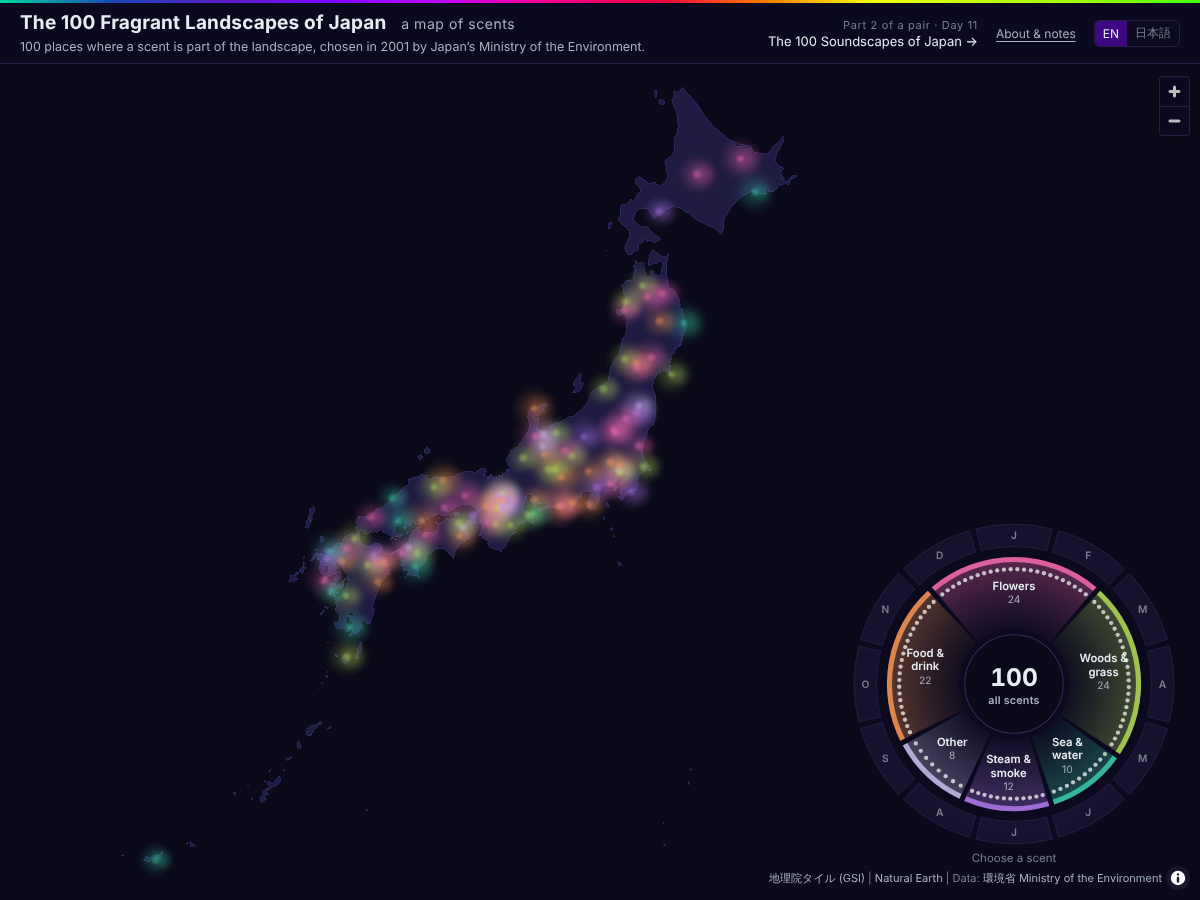
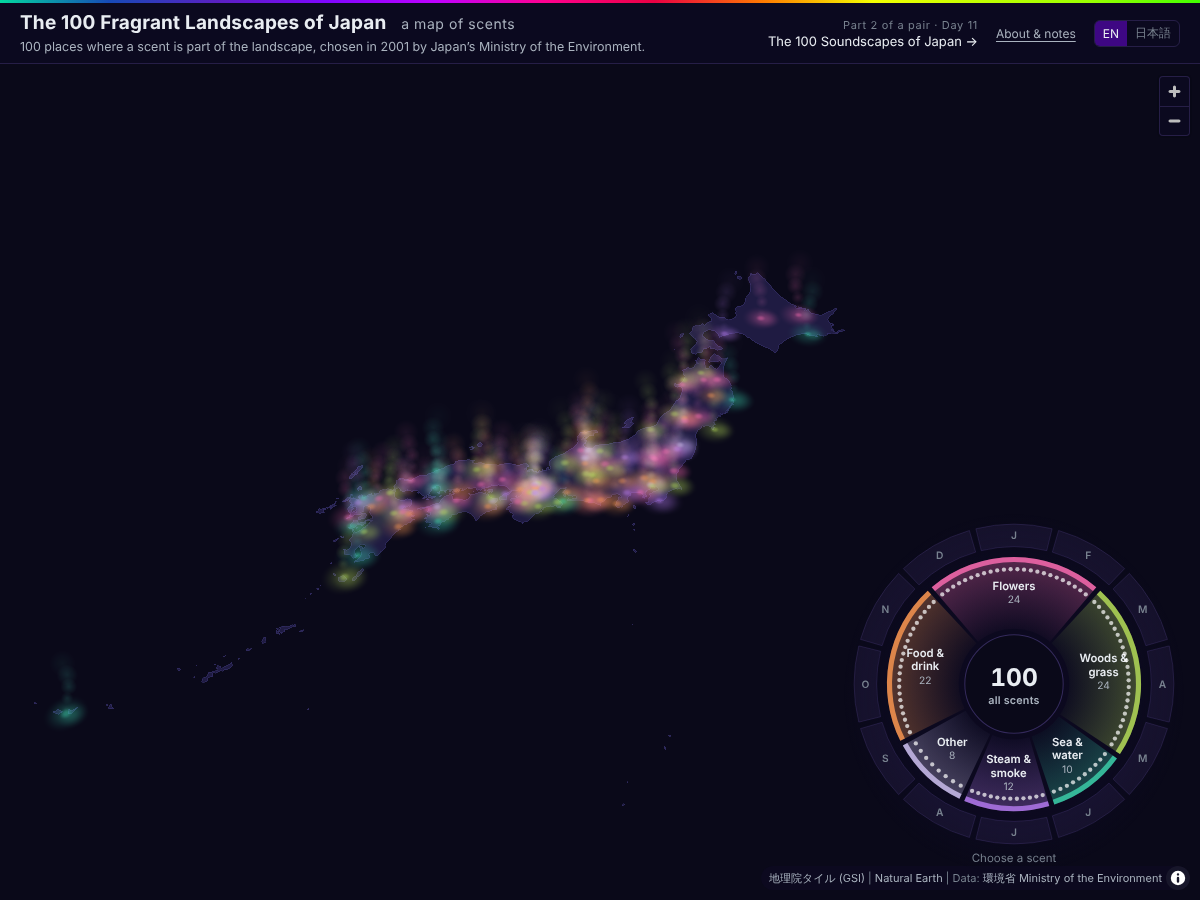
Tilt the map and let scents rise from each place
The map is seen from an angle, with the hazes lying on the ground and
a thin plume of soft wisps rising and swaying above each place, drawn
on a canvas over the map. Plumes follow the chosen scent and month,
rise with the opening, and stay still when reduced motion is set.

diff --git a/js/app.js b/js/app.js
@@ -85,6 +85,7 @@
         '<li>Base map: land outline from <a href="https://www.naturalearthdata.com/" target="_blank" rel="noopener">Natural Earth</a>; detail from <a href="https://maps.gsi.go.jp/development/ichiran.html" target="_blank" rel="noopener">GSI Tiles (blank map)</a>, Geospatial Information Authority of Japan.</li>' +
         '</ul>' +
         '<p>#30DayMapChallenge 2026 · Day 19 · Senses: Smell · <a href="https://github.com/shinyanakashima/30daymapchallenge-2026day19-100fragrances" target="_blank" rel="noopener">Data &amp; code</a></p>' +
+        '<p>The map is tilted, and a thin plume of scent rises from each place, swaying as it fades.</p>' +
         '<p>The outer ring of the wheel picks a month: only the scents of that month stay lit. Hover a name tag or a dot on the wheel to find a place.</p>' +
         '<p>Keyboard: ← / → move around the wheel, ↑ / ↓ change the month, 0 shows all, Esc closes.</p>'
     },
@@ -160,6 +161,7 @@
         '<li>背景地図：陸域の輪郭 <a href="https://www.naturalearthdata.com/" target="_blank" rel="noopener">Natural Earth</a>、詳細 <a href="https://maps.gsi.go.jp/development/ichiran.html" target="_blank" rel="noopener">地理院タイル（白地図）</a>（国土地理院）</li>' +
         '</ul>' +
         '<p>#30DayMapChallenge 2026・Day 19・Senses: Smell・<a href="https://github.com/shinyanakashima/30daymapchallenge-2026day19-100fragrances" target="_blank" rel="noopener">データとコード</a></p>' +
+        '<p>地図を斜めから見下ろし、各地点からかおりが細く立ちのぼって揺れながら消えていく様子を描いています。</p>' +
         '<p>輪の外周で月を選ぶと、その月にかおる場所だけが残ります。輪の縁の点にマウスを乗せると、その場所が地図に示されます。</p>' +
         '<p>キーボード：← / → で輪を回る、↑ / ↓ で月を変える、0 ですべて、Esc で閉じる。</p>'
     }
@@ -235,6 +237,35 @@
     keyboard: false
   });
   map.touchZoomRotate.disableRotation();
+  // the map is tilted so the scents can rise from it
+  // a tilted view, north kept roughly at the top so the outline of Japan stays familiar
+  function camAngles() { return isNarrow() ? { pitch: 45, bearing: 18 } : { pitch: 45, bearing: -12 }; }
+  var FRAME = [[122.9, 24.3], [124.2, 24.4], [129.7, 33.2], [130.6, 31.2], [132.6, 32.8], [135.8, 33.5], [139.0, 34.7], [140.9, 35.7],
+    [141.6, 38.3], [142.0, 39.6], [141.3, 41.4], [139.9, 41.5], [141.6, 45.4], [145.6, 43.3], [143.9, 42.9], [139.4, 38.2], [135.2, 35.6], [130.9, 34.3]];
+  function setCamera() {
+    var a = camAngles(), pad = fitPadding(), W = map.getContainer().clientWidth, H = map.getContainer().clientHeight;
+    var cam = map.cameraForBounds([[122.6, 24.0], [146.2, 45.6]], { padding: pad, bearing: a.bearing });
+    if (!cam) return;
+    map.jumpTo({ center: cam.center, zoom: cam.zoom, bearing: a.bearing, pitch: a.pitch });
+    // fit the tilted outline of Japan into the free area of the screen, leaving room above for the rising scent
+    var top = pad.top + 40;
+    for (var k = 0; k < 4; k++) {
+      var xs = [], ys = [];
+      FRAME.forEach(function (c) { var q = map.project(c); xs.push(q.x); ys.push(q.y); });
+      var x0 = Math.min.apply(null, xs), x1 = Math.max.apply(null, xs), y0 = Math.min.apply(null, ys), y1 = Math.max.apply(null, ys);
+      var aw = W - pad.left - pad.right, ah = H - top - pad.bottom;
+      var dz = Math.log(Math.min(aw / (x1 - x0), ah / (y1 - y0))) / Math.LN2;
+      var cx = (x0 + x1) / 2, cy = (y0 + y1) / 2, tx = pad.left + aw / 2, ty = top + ah / 2;
+      var c0 = map.unproject([cx, cy]), c1 = map.unproject([tx, ty]);
+      var cen = map.getCenter();
+      map.jumpTo({ center: [cen.lng + (c0.lng - c1.lng), cen.lat + (c0.lat - c1.lat)], zoom: map.getZoom() + dz * 0.9 });
+    }
+  }
+  map.once('load', setCamera);
+  var lastCamNarrow = isNarrow();
+  window.addEventListener('resize', function () {
+    if (isNarrow() !== lastCamNarrow && map.loaded()) { lastCamNarrow = isNarrow(); setCamera(); }
+  });
   window.fragranceMap = map;
   map.addControl(new maplibregl.AttributionControl({
     compact: true,
@@ -244,8 +275,8 @@
 
   function fitPadding() {
     var w = window.innerWidth;
-    if (w <= 720) return { top: 90, bottom: 290, left: 20, right: 20 };
-    return { top: 84, bottom: 30, left: 60, right: 340 };
+    if (w <= 720) return { top: 84, bottom: 290, left: 16, right: 16 };
+    return { top: 76, bottom: 30, left: 30, right: 360 };
   }
 
   function catColor() {
@@ -321,6 +352,7 @@
             'circle-radius': hazeRadius(0.7, 1),
             'circle-color': catColor(),
             'circle-blur': 1,
+            'circle-pitch-alignment': 'map',
             'circle-opacity': hazeOpacity(0.28, 0.2, 0.025, introOn() ? 47 : null),
             'circle-translate': [0, 0]
           }
@@ -331,6 +363,7 @@
             'circle-radius': hazeRadius(0.26, 1),
             'circle-color': catColor(),
             'circle-blur': 0.9,
+            'circle-pitch-alignment': 'map',
             'circle-opacity': hazeOpacity(0.55, 0.36, 0.04, introOn() ? 47 : null)
           }
         });
@@ -341,6 +374,7 @@
             'circle-color': 'rgba(0,0,0,0)',
             'circle-stroke-color': '#ffffff',
             'circle-stroke-width': 1.5,
+            'circle-pitch-alignment': 'map',
             'circle-stroke-opacity': ['case', SEL, 0.9, HL, 0.55, 0]
           }
         });
@@ -739,7 +773,8 @@
   // The hazes slowly breathe and the middle layer drifts a little, like a scent on a light wind.
   var rafId = null;
   var lastDraw = 0;
-  var INTRO_MS = 3600, introStart = null, introDone = false;
+  var INTRO_MS = 3600, introStart = null, introDone = false, revealTh = introOn0() ? 47 : null;
+  function introOn0() { return !(reduceMotion && reduceMotion.matches); }
   function introOn() { return !introDone && !(reduceMotion && reduceMotion.matches); }
   function drawHaze(t, drift) {
     if (!map.getLayer('haze-wide')) return;
@@ -753,24 +788,81 @@
       // hazes rise one after another from Hokkaido down to Okinawa
       var k = Math.min(1, (ts - introStart) / INTRO_MS);
       var e = 1 - Math.pow(1 - k, 2);
-      setReveal(47 - e * 27);
-      if (k >= 1) { introDone = true; setReveal(null); }
+      revealTh = 47 - e * 27;
+      setReveal(revealTh);
+      if (k >= 1) { introDone = true; revealTh = null; setReveal(null); }
     }
     if (ts - lastDraw > 50) {
       var t = ts / 1000;
       drawHaze(t, [Math.sin(t * 0.21) * 5 + 2, Math.cos(t * 0.17) * 3 - 1]);
       lastDraw = ts;
     }
+    drawPlumes(ts / 1000, false);
     rafId = requestAnimationFrame(frame);
   }
   function drawStatic() {
     if (!map.getLayer('haze-wide')) return;
-    if (!introDone) { introDone = true; setReveal(null); }
+    if (!introDone) { introDone = true; revealTh = null; setReveal(null); }
+    drawPlumes(0, true);
     map.setPaintProperty('haze-wide', 'circle-radius', hazeRadius(1, 1));
     map.setPaintProperty('haze-drift', 'circle-radius', hazeRadius(0.7, 1));
     map.setPaintProperty('haze-core', 'circle-radius', hazeRadius(0.26, 1));
     map.setPaintProperty('haze-drift', 'circle-translate', [0, 0]);
   }
+  // ---------- rising scent ----------
+  // Each place sends up soft wisps that sway and fade, drawn on a canvas over the tilted map.
+  var plume = $('plume'), pctx = plume.getContext('2d');
+  var sprites = {};
+  function sprite(col) {
+    if (sprites[col]) return sprites[col];
+    var c = document.createElement('canvas'); c.width = c.height = 64;
+    var g = c.getContext('2d'), gr = g.createRadialGradient(32, 32, 0, 32, 32, 32);
+    gr.addColorStop(0, col); gr.addColorStop(0.35, col + 'aa'); gr.addColorStop(1, col + '00');
+    g.fillStyle = gr; g.fillRect(0, 0, 64, 64);
+    return (sprites[col] = c);
+  }
+  function sizePlume() {
+    var r = window.devicePixelRatio || 1, w = plume.clientWidth, h = plume.clientHeight;
+    if (plume.width !== Math.round(w * r) || plume.height !== Math.round(h * r)) {
+      plume.width = Math.round(w * r); plume.height = Math.round(h * r);
+    }
+    pctx.setTransform(r, 0, 0, r, 0, 0);
+  }
+  var WISPS = 5, LIFE = 4.2;
+  function drawPlumes(t, still) {
+    if (!items.length) return;
+    sizePlume();
+    var w = plume.clientWidth, h = plume.clientHeight;
+    pctx.clearRect(0, 0, w, h);
+    var s = Math.max(isNarrow() ? 0.6 : 0.9, Math.min(1.8, Math.pow(2, map.getZoom() - 5)));
+    var f = state.preview || state.focus, any = !!f || !!state.month;
+    pctx.globalCompositeOperation = 'screen';
+    items.forEach(function (it) {
+      var p = map.project([it.lon, it.lat]);
+      if (p.x < -60 || p.x > w + 60 || p.y < -40 || p.y > h + 200) return;
+      var a = !any ? 0.4 : (isLit(it) ? 0.75 : 0.05);
+      if (state.selected === it.id) a = 1;
+      if (revealTh != null) a *= Math.max(0, Math.min(1, (it.lat - revealTh) / 2.5));
+      if (a <= 0.01) return;
+      var img = sprite(COLORS[it.category]);
+      var ph = (it.id * 0.618) % 1;
+      for (var k = 0; k < WISPS; k++) {
+        // u: 0 at the ground, 1 at the top of the plume
+        var u = still ? (k + 0.5) / WISPS : ((t / LIFE + ph + k / WISPS) % 1);
+        var rise = u * 64 * s;
+        var sway = Math.sin(t * 0.9 + it.id + u * 5) * 7 * s * u;
+        var size = (7 + 24 * u) * s;
+        var al = a * Math.sin(Math.PI * u) * (1 - u * 0.35) * 0.5;
+        pctx.globalAlpha = al;
+        pctx.drawImage(img, p.x + sway - size / 2, p.y - rise - size / 2, size, size);
+      }
+    });
+    pctx.globalAlpha = 1;
+    pctx.globalCompositeOperation = 'source-over';
+  }
+  map.on('move', function () { if (reduceMotion && reduceMotion.matches) drawPlumes(0, true); });
+  window.addEventListener('resize', function () { if (reduceMotion && reduceMotion.matches) drawPlumes(0, true); });
+
   function startAnimation() {
     if (rafId) cancelAnimationFrame(rafId);
     rafId = null;

diff --git a/css/style.css b/css/style.css
@@ -35,6 +35,8 @@ button { font: inherit; color: inherit; cursor: pointer; }
 .maplibregl-ctrl-group button + button { border-top-color: var(--panel-line) !important; }
 .maplibregl-ctrl-group button .maplibregl-ctrl-icon { filter: invert(0.9); }
 .maplibregl-canvas { cursor: default; }
+/* rising scent drawn over the tilted map */
+#plume { position: absolute; inset: 0; width: 100%; height: 100%; pointer-events: none; z-index: 1; mix-blend-mode: screen; }
 .maplibregl-ctrl-top-right { top: calc(var(--hd-h) + 2px); }
 
 .panel {

diff --git a/index.html b/index.html
@@ -14,6 +14,7 @@
 </head>
 <body>
 <div id="map" role="region" aria-label="Map"></div>
+<canvas id="plume" aria-hidden="true"></canvas>
 
 <header class="site-header">
   <div class="hd-title">

diff --git a/README.md b/README.md
@@ -10,7 +10,7 @@
 
 On 30 October 2001, Japan's Ministry of the Environment selected the *100 Fragrant Landscapes of Japan* (かおり風景100選) from 600 entries: places where a good scent belongs to the scenery, culture or daily life, and where local people work to keep it. Lavender fields and plum groves sit on the list next to hot spring sulphur, incense, soy sauce, old books and the smell of rain on stone.
 
-This map places the 100 scents as soft, drifting hazes coloured by the kind of scent. Pick a kind on the scent wheel and its places come forward while the rest fade.
+This map places the 100 scents on a tilted map as soft hazes coloured by the kind of scent, each sending up a thin plume that sways and fades. Pick a kind on the scent wheel and its places come forward while the rest fade.
 
 It is the second half of a pair with Day 11, [The 100 Soundscapes of Japan: a sound calendar](https://shinyanakashima.github.io/30daymapchallenge-2026day11-100soundscapes/). Day 11 shows sounds by *when* you can hear them; this map shows scents by *what* they smell of.
 
@@ -21,7 +21,7 @@ It is the second half of a pair with Day 11, [The 100 Soundscapes of Japan: a so
 - On opening, the hazes rise one after another from Hokkaido down to Okinawa
 - English and Japanese (`?lang=ja`); a kind of scent can be set with `?scent=flower` (`green`, `water`, `smoke`, `food`, `other`)
 - Keyboard: ← / → move around the wheel, ↑ / ↓ change the month, 0 shows all, Esc closes
-- The hazes stop moving, and do not rise on opening, when the device is set to reduce motion
+- The hazes and plumes stop moving, and do not rise on opening, when the device is set to reduce motion
 
 ### Counts
 
@@ -111,7 +111,7 @@ Rules for mixed entries: the main kind is the scent the title puts first (e.g. N
 ## 日本語
 
 2001年10月30日、環境省は全国600件の応募から「かおり風景100選」を選びました。ラベンダー畑や梅林と並んで、温泉の硫黄、線香、醤油、古書、雨上がりの石のにおいまでが選ばれています。
-この地図では100のかおりを、ふわりと漂う霞としてかおりの種類ごとの色で置きました。「かおりの輪」から種類を選ぶと、そのかおりの場所が濃く浮かび、ほかは薄くなります。
+この地図では斜めから見下ろした日本に100のかおりを霞として置き、各地点からかおりが細く立ちのぼる様子を、かおりの種類ごとの色で描きました。「かおりの輪」から種類を選ぶと、そのかおりの場所が濃く浮かび、ほかは薄くなります。
 
 Day 11「[日本の音風景100選 音の暦](https://shinyanakashima.github.io/30daymapchallenge-2026day11-100soundscapes/?lang=ja)」と対になる2部作の後編です。Day 11 は音を「いつ聞けるか」で、この地図はかおりを「どんなかおりか」で見せます。
 
@@ -121,7 +121,7 @@ Day 11「[日本の音風景100選 音の暦](https://shinyanakashima.github.io/
 - 霞をクリックすると、写真、名称、場所、かおりの種類、季節、短い説明を表示
 - 開いたとき、北海道から沖縄へ順に霞が立ちのぼります
 - 英語と日本語の切り替え（`?lang=ja`）
-- 「動きを減らす」設定の端末では霞の揺らぎと立ちのぼりを止めます
+- 「動きを減らす」設定の端末では霞の揺らぎ・煙の動き・開いたときの立ちのぼりを止めます
 
 ### かおりの種類の分け方
 
